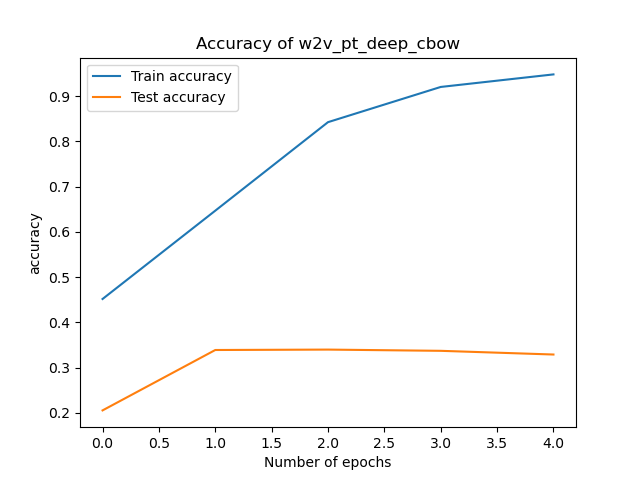
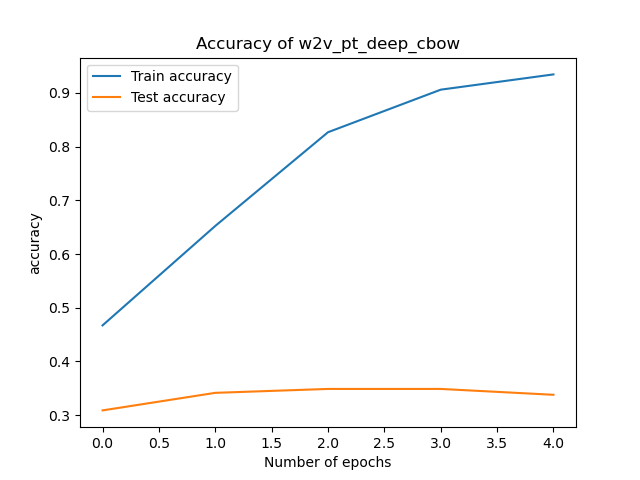
made the lstm

diff --git a/practical_2/scripts/train_lstm.py b/practical_2/scripts/train_lstm.py
@@ -1,9 +1,10 @@
 from torch.utils.data import DataLoader
-from practical_2.TreeDataset import TreeDataset, prepare_example
+from practical_2.TreeDataset import TreeDataset, prepare_example, pad_batch
 from practical_2.models.BOW import *
 from torch.optim import *
 from practical_2.callbacks.callbacks import *
 from practical_2.models.CBOW import create_cbow_model
+from practical_2.models.LSTM import create_lstm
 from practical_2.prepare import prepare
 from practical_2.utils import *
 from practical_2.train import train_model
@@ -14,25 +15,28 @@ prepare()
 train_dataset = TreeDataset("trees/train.txt")
 eval_testset = TreeDataset("trees/dev.txt")
 ### Now we need to set the tranformation function
-transform = lambda example: prepare_example(example, train_dataset.v)
 
+model = create_lstm()
+device = torch.device('cuda' if torch.cuda.is_available() else 'cpu')
+
+model.to(device)
+v = model.vocab
+
+transform = lambda example: prepare_example(example, v)
 train_dataset.transform = transform
 eval_testset.transform = transform
 
-train_dataloader = DataLoader(train_dataset, batch_size=1)
-eval_dataloader = DataLoader(eval_testset)
-v = train_dataset.v
+train_dataloader = DataLoader(train_dataset, batch_size=512, collate_fn=pad_batch)
+eval_dataloader = DataLoader(eval_testset, batch_size=512, collate_fn=pad_batch)
 
-model = create_cbow_model(v)
 
-optimizer = Adam(model.parameters(), lr=0.0005)
+optimizer = Adagrad(model.parameters(), lr=2e-4)
 
 eval_callback = ListCallback([
     AccuracyCallback()
 ])
 
-history = train_model(model, optimizer, train_dataloader, eval_dataloader, eval_callback=eval_callback, n_epochs=5,
-                      eval_every=1)
-
-
-save_history(history, 'histories/cbow')
+history = train_model(model, optimizer, train_dataloader, eval_dataloader, eval_callback=eval_callback, n_epochs=50,
+                      eval_every=5)
+print(history)
+save_history(history, 'histories/lstm')

diff --git a/practical_2/train.py b/practical_2/train.py
@@ -37,13 +37,12 @@ def train_model(model, optimizer, train_dataloader, eval_dataloader, n_epochs=20
 
         ## The training loop
         loss_epoch = 0
-        seen_examples = 0
+        n_steps = 0
         callback_values = []
         for x, y in train_dataloader:
-
             optimizer.zero_grad()
 
-            seen_examples += len(x)
+            n_steps += 1
 
             # Put it on gpu
             x, y = x.to(device), y.to(device)
@@ -63,23 +62,23 @@ def train_model(model, optimizer, train_dataloader, eval_dataloader, n_epochs=20
             if eval_callback:
                 eval_callback.forward(out, y)
 
-        history["train_loss"].append(loss_epoch / seen_examples)
+        history["train_loss"].append(loss_epoch / n_steps)
         if eval_callback:
             history["train_eval"].append(eval_callback.accumulate())
 
         ### Evaluation
         if epoch % eval_every == 0 or epoch == n_epochs - 1:
+            model.eval()
             with torch.no_grad():
-                model.eval()
 
                 loss_eval = 0
-                seen_examples = 0
+                n_steps = 0
                 callback_values = []
                 for x, y in eval_dataloader:
 
                     optimizer.zero_grad()
 
-                    seen_examples += len(x)
+                    n_steps += 1
 
                     # Put it on gpu
                     x, y = x.to(device), y.to(device)
@@ -95,9 +94,10 @@ def train_model(model, optimizer, train_dataloader, eval_dataloader, n_epochs=20
                     if eval_callback:
                         eval_callback.forward(out, y)
 
-                history["test_loss"].append(loss_eval / seen_examples)
+                history["test_loss"].append(loss_eval / n_steps)
                 if eval_callback:
                     history["test_eval"].append(eval_callback.accumulate())
+
                 model.train()
 
     return history

diff --git a/practical_2/scripts/train_pt_deep_cbow.py b/practical_2/scripts/train_pt_deep_cbow.py
@@ -1,5 +1,5 @@
 from torch.utils.data import DataLoader
-from practical_2.TreeDataset import TreeDataset, prepare_example
+from practical_2.TreeDataset import TreeDataset, prepare_example, pad_batch
 from practical_2.models.BOW import *
 from torch.optim import *
 from practical_2.callbacks.callbacks import *
@@ -15,16 +15,19 @@ prepare()
 
 train_dataset = TreeDataset("trees/train.txt")
 eval_testset = TreeDataset("trees/dev.txt")
+
+model = create_w2v_deep_cbow_model()
+
 ### Now we need to set the tranformation function
-transform = lambda example: prepare_example(example, train_dataset.v)
+transform = lambda example: prepare_example(example, model.vocab)
+
+
 
 train_dataset.transform = transform
 eval_testset.transform = transform
 
-train_dataloader = DataLoader(train_dataset, batch_size=1)
-eval_dataloader = DataLoader(eval_testset)
-
-model = create_w2v_deep_cbow_model()
+train_dataloader = DataLoader(train_dataset, batch_size=128 , collate_fn=pad_batch)
+eval_dataloader = DataLoader(eval_testset, batch_size=128, collate_fn=pad_batch)
 
 optimizer = Adam(model.parameters(), lr=0.0005)
 
@@ -32,7 +35,8 @@ eval_callback = ListCallback([
     AccuracyCallback()
 ])
 
-history = train_model(model, optimizer, train_dataloader, eval_dataloader, eval_callback=eval_callback, n_epochs=5,
+history = train_model(model, optimizer, train_dataloader, eval_dataloader, eval_callback=eval_callback, n_epochs=20,
                       eval_every=1)
 
-save_history(history, 'histories/w2v_pt_deep_cbow')
+print(history)
+save_history(history, 'histories/w2v_pt_deep_cbow_collate')

diff --git a/practical_2/models/DeepCBOW.py b/practical_2/models/DeepCBOW.py
@@ -1,7 +1,7 @@
 import torch
 from torch import nn
 import torch.nn.functional as F
-from practical_2.utils import t2i, Vocabulary, load_pretrained_weights
+from practical_2.utils import t2i, Vocabulary, get_pretrained_weights
 import numpy as np
 
 
@@ -27,8 +27,6 @@ class DeepCBOW(nn.Module):
 
         ]
 
-        # this is a trainable bias term
-        self.bias = nn.Parameter(torch.zeros(out_size), requires_grad=True)
 
     def forward(self, inputs):
         # this is the forward pass of the neural network
@@ -62,6 +60,7 @@ class PTDeepCBOW(DeepCBOW):
         :return:
         '''
         self.embed.weight.data.copy_(torch.from_numpy(vectors))
+        self.embed.requires_grad = False ### Make sure we do not train it any further
 
 
 def create_deep_cbow_model(v):
@@ -73,7 +72,7 @@ def create_deep_cbow_model(v):
 
 def create_glove_deep_cbow_model():
     ref = "embeddings/glove.840B.300d.sst.txt"
-    v, vectors = load_pretrained_weights(ref, zero_init_function)
+    v, vectors = get_pretrained_weights(ref, zero_init_function)
     vocab_size = len(v.w2i)
     n_classes = len(t2i)
 
@@ -85,7 +84,7 @@ def create_glove_deep_cbow_model():
 
 def create_w2v_deep_cbow_model():
     ref = "embeddings/googlenews.word2vec.300d.txt"
-    v, vectors = load_pretrained_weights(ref, zero_init_function)
+    v, vectors = get_pretrained_weights(ref, zero_init_function)
     vocab_size = len(v.w2i)
     n_classes = len(t2i)
 

diff --git a/practical_2/models/LSTM.py b/practical_2/models/LSTM.py
@@ -2,7 +2,8 @@ from torch import nn
 import math
 import torch
 
-from practical_2.utils import t2i
+from practical_2.models.DeepCBOW import zero_init_function
+from practical_2.utils import t2i, get_pretrained_weights
 
 
 class LSTMClassifier(nn.Module):
@@ -71,6 +72,16 @@ class LSTMClassifier(nn.Module):
         # we use the last hidden state to classify the sentence
         logits = self.output_layer(final)
         return logits
+
+    def load_pretrained_weights(self, vectors):
+        '''
+            Loads the pretrained weights from the given file.
+            Returns the vocab that it created loading the weights
+        :param ref:
+        :return:
+        '''
+        self.embed.weight.data.copy_(torch.from_numpy(vectors))
+        #self.embed.requires_grad = False
 
 
 class MyLSTMCell(nn.Module):
@@ -145,5 +156,11 @@ class InputHiddenLayer(nn.Module):
         return self.activation_function(torch.matmul(x, self.w_in) + torch.matmul(h, self.w_hidden) + self.b)
 
 
-def create_lstm(v):
-    lstm_model = LSTMClassifier(len(v.w2i), 300, 168, len(t2i), v)
+def create_lstm():
+    ref = "embeddings/googlenews.word2vec.300d.txt"
+    v, vectors = get_pretrained_weights(ref, zero_init_function)
+    vocab_size = len(v.w2i)
+    n_classes = len(t2i)
+    lstm = LSTMClassifier(len(v.w2i), 300, 168, len(t2i), v)
+    lstm.load_pretrained_weights(vectors)
+    return lstm

diff --git a/practical_2/scripts/train_cbow.py b/practical_2/scripts/train_cbow.py
@@ -1,10 +1,11 @@
 from torch.utils.data import DataLoader
-from practical_2.TreeDataset import TreeDataset, prepare_example
+from practical_2.TreeDataset import TreeDataset, prepare_example, pad_batch
 from practical_2.models.BOW import *
 from torch.optim import *
 from practical_2.callbacks.callbacks import *
 from practical_2.models.CBOW import create_cbow_model
 from practical_2.prepare import prepare
+
 from practical_2.utils import *
 from practical_2.train import train_model
 
@@ -19,8 +20,9 @@ transform = lambda example: prepare_example(example, train_dataset.v)
 train_dataset.transform = transform
 eval_testset.transform = transform
 
-train_dataloader = DataLoader(train_dataset, batch_size=1)
-eval_dataloader = DataLoader(eval_testset)
+collate_fn = lambda x: pad_batch(x, v)
+train_dataloader = DataLoader(train_dataset,  batch_size=128, collate_fn=collate_fn)
+eval_dataloader = DataLoader(eval_testset,  batch_size=128, collate_fn=collate_fn)
 v = train_dataset.v
 
 model = create_cbow_model(v)
@@ -34,5 +36,5 @@ eval_callback = ListCallback([
 history = train_model(model, optimizer, train_dataloader, eval_dataloader, eval_callback=eval_callback, n_epochs=5,
                       eval_every=1)
 
-
+print(history)
 save_history(history, 'histories/cbow')

diff --git a/practical_2/TreeDataset.py b/practical_2/TreeDataset.py
@@ -23,12 +23,11 @@ class TreeDataset(Dataset):
 
     def __getitem__(self, idx):
         sample = self.data[idx]
-        x= sample.tokens
-        y = sample.tokens
+        x = sample.tokens
+        y = sample.label
 
         if self.transform:
             x, y = self.transform(sample)
-
 
         return x, y
 
@@ -52,14 +51,35 @@ def prepare_example(example, vocab):
 
     x = torch.LongTensor(x)
 
-
     y = example.label
-
 
     return x, y
 
 
+def pad(tokens, length, pad_value=1):
+    """add padding 1s to a sequence to that it has the desired length"""
+    return tokens + [pad_value] * (length - len(tokens))
+
+
+def pad_batch(mb):
+    """
+    Minibatch is a list of examples.
+
+    torch tensors to be used as input/targets.
+    """
+    x = [sample[0] for sample in mb]
+    y = [sample[1] for sample in mb]
+
+    batch_size = len(mb)
+    maxlen = max([len(ex) for ex in x])
+
+    # vocab returns 0 if the word is not there
+    x = [pad(ex.tolist(), maxlen) for ex in x]
+
+    x = torch.LongTensor(x)
+
+    y = torch.LongTensor(y)
 
 
 
-
+    return x, y

diff --git a/practical_2/callbacks/callbacks.py b/practical_2/callbacks/callbacks.py
@@ -28,9 +28,9 @@ class AccuracyCallback(CallBack):
         self.count = 0
 
     def forward(self, out, y):
-        predictions = out.argmax(dim=-1)
+        predictions = out.argmax(dim=-1).view(-1)
         self.results += (predictions == y).sum().item()
-        self.count += 1
+        self.count += len(y)
 
     def accumulate(self):
         result = self.results / self.count

diff --git a/practical_2/utils.py b/practical_2/utils.py
@@ -155,7 +155,7 @@ def plot_history(history, title, flag=True):
         plt.show()
 
 
-def load_pretrained_weights(ref, init_func=np.zeros):
+def get_pretrained_weights(ref, init_func=np.zeros):
     v = Vocabulary()
     vectors = []
     v.add_token("<unk>")  # reserve 0 for <unk> (unknown words)

diff --git a/practical_2/scripts/plot_history.py b/practical_2/scripts/plot_history.py
@@ -1,6 +1,6 @@
 from practical_2.utils import load_history, plot_history
 
-name = "w2v_pt_deep_cbow"
+name = "lstm"
 history = load_history('histories/{}'.format(name))
 
 plot_history(history, name)
